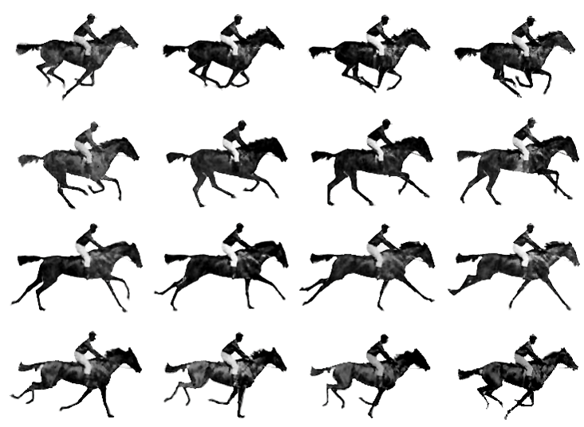
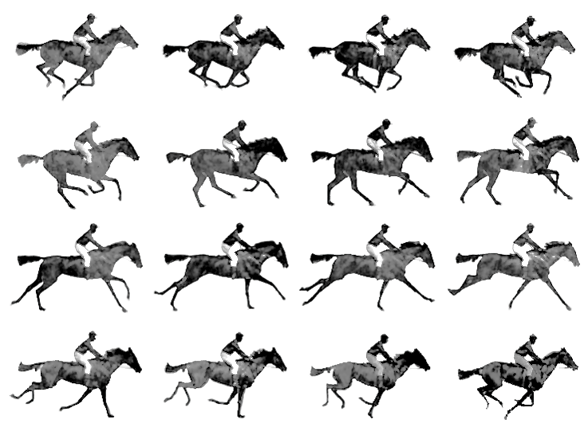
이미지 로드 및 움직임 애니메이션 구현

diff --git a/horse.py b/horse.py
@@ -1,3 +1,5 @@
+import math
+
 from pico2d import get_time, load_image, load_font, clamp, SDL_KEYDOWN, SDL_KEYUP, SDLK_SPACE, SDLK_LEFT, SDLK_RIGHT
 import game_world
 import game_framework
@@ -21,11 +23,14 @@ def left_down(e):
 def left_up(e):
     return e[0] == 'INPUT' and e[1].type == SDL_KEYUP and e[1].key == SDLK_LEFT
 
+
 def space_down(e):
     return e[0] == 'INPUT' and e[1].type == SDL_KEYDOWN and e[1].key == SDLK_SPACE
 
+
 def time_out(e):
     return e[0] == 'TIME_OUT'
+
 
 # Run Speed
 PIXEL_PER_METER = (10.0 / 0.3)  # 10 pixel 30 cm
@@ -35,9 +40,10 @@ RUN_SPEED_MPS = (RUN_SPEED_MPM / 60.0)
 RUN_SPEED_PPS = (RUN_SPEED_MPS * PIXEL_PER_METER)
 
 # Action Speed
-TIME_PER_ACTION = 0.5
+TIME_PER_ACTION = 1.0
 ACTION_PER_TIME = 1.0 / TIME_PER_ACTION
 FRAMES_PER_ACTION = 8
+
 
 ################################################
 
@@ -45,6 +51,7 @@ class Idle:
 
     @staticmethod
     def enter(horse, e):
+        horse.speed = 0
         pass
 
     @staticmethod
@@ -57,8 +64,13 @@ class Idle:
 
     @staticmethod
     def draw(horse):
-        horse.frame = (horse.frame + FRAMES_PER_ACTION * ACTION_PER_TIME * game_framework.frame_time) % 8
+        if horse.frame // 4 == 1:
+            horse.action += 1
+
+        horse.image.clip_draw(int(horse.frame) * horse.w, horse.action * horse.h, horse.w, horse.h,
+                              horse.x, horse.y, horse.w*1.5, horse.h*1.5)
         pass
+
 
 class Run:
 
@@ -78,6 +90,7 @@ class Run:
     def draw(horse):
         pass
 
+
 ###################################################
 class StateMachine:
     def __init__(self, horse):
@@ -93,6 +106,10 @@ class StateMachine:
 
     def update(self):
         self.cur_state.do(self.horse)
+
+        self.horse.frame = (self.horse.frame + FRAMES_PER_ACTION * ACTION_PER_TIME * game_framework.frame_time) % 4
+        self.horse.x += self.horse.speed * game_framework.frame_time
+        self.horse.y += self.horse.speed * game_framework.frame_time
 
     def handle_event(self, e):
         for check_event, next_state in self.transitions[self.cur_state].items():
@@ -111,10 +128,11 @@ class StateMachine:
 ##################################################
 class Horse:
     def __init__(self):
-        self.x, self.y = 0, 0
-        self.frame = 0
-        self.action = 3
         self.image = load_image('horse_with_rider.png')
+        self.w, self.h = 146, 106
+        self.x, self.y = 200, 120
+        self.frame = 0
+        self.action = 0
         self.state_machine = StateMachine(self)
         self.state_machine.start()
 

diff --git a/play_mode.py b/play_mode.py
@@ -3,7 +3,6 @@ import game_framework
 
 import game_world
 from grass import Grass
-from cloud import Cloud
 from horse import Horse
 
 
@@ -19,22 +18,19 @@ def handle_events():
 
 
 def init():
-    global cloud
-    global grass
+    global grass_list
     global horse
     global image
     running = True
 
     image = load_image('background.PNG')
 
-    cloud = Cloud()
-    game_world.add_object(cloud, 0)
-
-    grass = Grass()
-    game_world.add_object(grass, 1)
+    grass_list = [Grass() for _ in range(4)]
+    for grass in grass_list:
+        game_world.add_object(grass, 0)
 
     horse = Horse()
-    game_world.add_object(horse, 2)
+    game_world.add_object(horse, 1)
 
 
 def finish():

diff --git a/grass.py b/grass.py
@@ -1,11 +1,23 @@
-from pico2d import load_image
+from pico2d import *
 
+grass_cnt = 0
 
 class Grass:
     def __init__(self):
+        global grass_cnt
         self.image = load_image('grass.PNG')
+        self.cw = get_canvas_width()
+        self.w = self.image.w//2
+        self.h = self.image.h//2
+        self.x = self.cw//4 + grass_cnt * self.w
+        self.y = 50
+        grass_cnt += 1
     def draw(self):
-        self.image.draw(400,50)
+        self.image.draw(self.x,self.y,self.w,self.h)
 
     def update(self):
+        if self.x + self.w//2 < 0:
+            self.x = self.cw + self.w
+        self.x -= 1
+        # 말이 이동해야 하는 만큼 x 위치 이동
         pass
